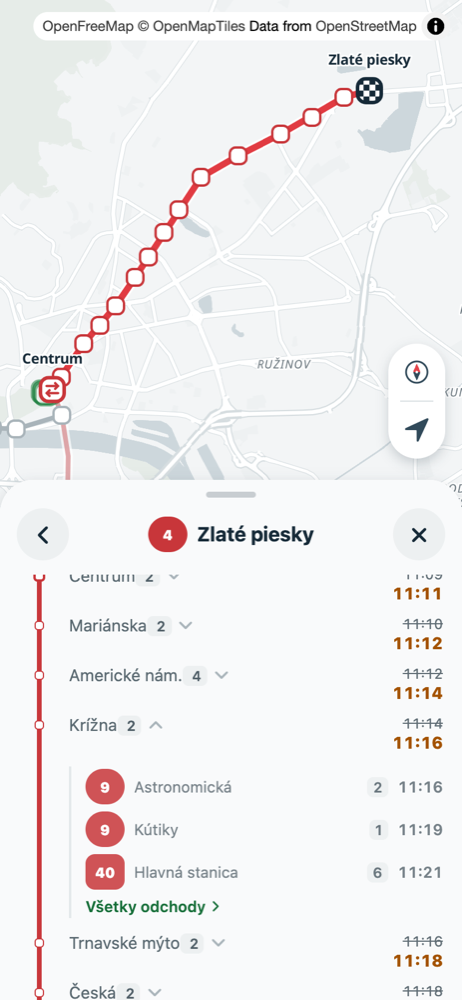
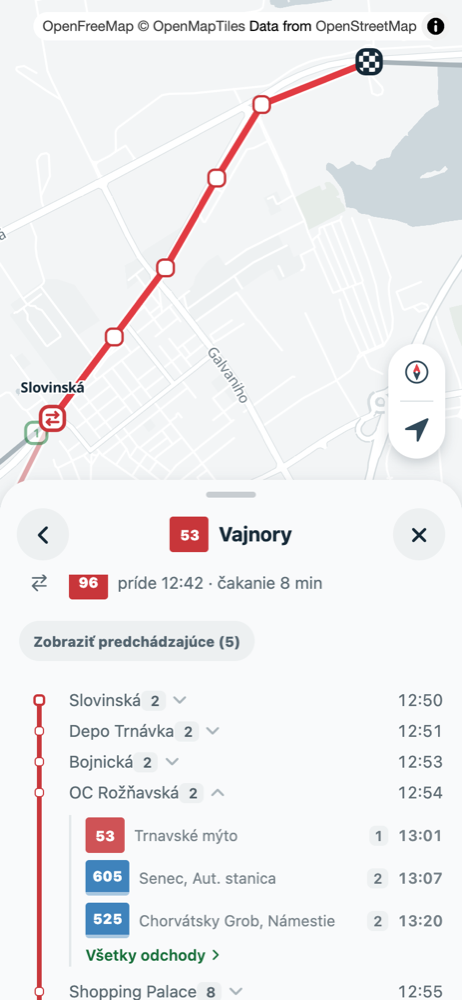
spoj journey drawer: tier 3 as the departures card

diff --git a/spoj-journey-drawer.html b/spoj-journey-drawer.html
@@ -22,8 +22,9 @@ figcaption{font-size:13px;color:var(--text-2);margin-top:8px} figcaption b{color
   <figure><img src="spoj-journey-drawer/02-tier1.png" alt=""><figcaption><b>Tier 1 · journey</b>Its own drawer over the main one, which is hidden. ✕ closes; back too.</figcaption></figure>
   <figure><img src="spoj-journey-drawer/03-tier2-first.png" alt=""><figcaption><b>Tier 2 · first leg</b>Tapping a leg opens it: CTAs, one-line trips, the walk onto it above the stops.</figcaption></figure>
   <figure><img src="spoj-journey-drawer/04-tier2-link.png" alt=""><figcaption><b>Tier 2 · a later leg</b>The change from the previous leg above the stops: 96 arrives 11:29, 5 min wait.</figcaption></figure>
-  <figure><img src="spoj-journey-drawer/05-arrivals.png" alt=""><figcaption><b>Stop opened</b>Departures after you arrive, in line; Všetky odchody opens tier 3.</figcaption></figure>
-  <figure><img src="spoj-journey-drawer/06-tier3.png" alt=""><figcaption><b>Tier 3 · stop</b>All departures after you arrive, inside the journey. Back returns to the leg.</figcaption></figure>
+  <figure><img src="spoj-journey-drawer/05-arrivals.png" alt=""><figcaption><b>Stop opened</b>The next three departures after you arrive unfold in line; Všetky odchody opens tier 3.</figcaption></figure>
+  <figure><img src="spoj-journey-drawer/06-tier3.png" alt=""><figcaption><b>Tier 3 · departures card</b>The card from Odchody, listing what leaves after you arrive. Odtiaľto plans from the stop; back returns to the leg.</figcaption></figure>
+  <figure><img src="spoj-journey-drawer/06b-trip-on-top.png" alt=""><figcaption><b>A departure tapped</b>Its trip opens on top inside the journey, with the full live map. Back returns to the card.</figcaption></figure>
   <figure><img src="spoj-journey-drawer/07-missed-onto.png" alt=""><figcaption><b>Earlier trip picked</b>It is struck through in the chips, and the warning sits above the stops.</figcaption></figure>
   <figure><img src="spoj-journey-drawer/08-missed-onward.png" alt=""><figcaption><b>Later first leg picked</b>The warning sits under the stops, with the next trip that still connects.</figcaption></figure>
   <figure><img src="spoj-journey-drawer/09-tracked.png" alt=""><figcaption><b>Sledovať</b>Same drawer: live headline, countdown, bar. Nesledovať + ticket stay put; ✕ turns into ⌄.</figcaption></figure>
